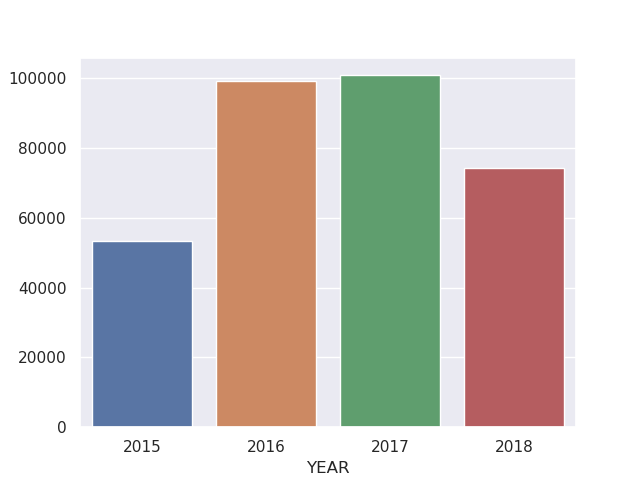
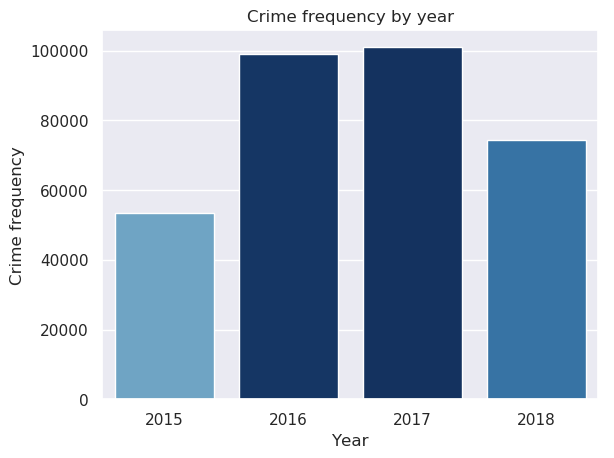
Make plots

diff --git a/main.py b/main.py
@@ -8,7 +8,7 @@ images_path = './stat_images/'
 
 # read data and store them in a dataframe
 df = pd.read_csv(dataset_path, engine='python')
-print(df['SHOOTING'].head(10))
+print(df.head(10))
 print(df.dtypes)
 print(df.columns.values)
 
@@ -29,11 +29,40 @@ month_group_df = df.groupby(['MONTH'])['INCIDENT_NUMBER'].count()
 day_group_df = df.groupby(['DAY_OF_WEEK'])['INCIDENT_NUMBER'].count()
 distr_group_df = df.groupby(['DISTRICT'])['INCIDENT_NUMBER'].count()
 
-print(year_group_df.sum())
-print(month_group_df.sum())
+print(year_group_df)
+print(month_group_df)
 print(day_group_df)
-print(type(distr_group_df))
+# change order of rows (based on week days order)
+day_group_df = day_group_df.reindex(
+    index=['Monday', 'Tuesday', 'Wednesday', 'Thursday', 'Friday', 'Saturday', 'Sunday'])
+print(day_group_df)
+
+# make plots
 sns.set(style="darkgrid")
-sns.barplot(year_group_df.index, year_group_df.values)
-# plt.show()
-plt.savefig(images_path + 'year.png')
+
+norm = plt.Normalize(0, year_group_df.values.max())
+colors = plt.cm.Blues(norm(year_group_df.values))
+ax = sns.barplot(year_group_df.index,
+                 year_group_df.values, palette=colors)
+ax.set(ylabel='Crime frequency', xlabel='Year')
+plt.title('Crime frequency by year')
+plt.savefig(images_path + 'year.png', bbox_inches="tight")
+plt.close()
+
+norm = plt.Normalize(0, month_group_df.values.max())
+colors = plt.cm.Blues(norm(month_group_df.values))
+ax = sns.barplot(month_group_df.index,
+                 month_group_df.values, palette=colors)
+ax.set(ylabel='Crime frequency', xlabel='Month')
+plt.title('Crime frequency by month')
+plt.savefig(images_path + 'month.png', bbox_inches="tight")
+plt.close()
+
+norm = plt.Normalize(0, day_group_df.values.max())
+colors = plt.cm.Blues(norm(day_group_df.values))
+ax = sns.barplot(day_group_df.index,
+                 day_group_df.values, palette=colors)
+ax.set(ylabel='Crime frequency', xlabel='Day')
+plt.title('Crime frequency by day')
+plt.savefig(images_path + 'day.png', bbox_inches="tight")
+plt.close()
